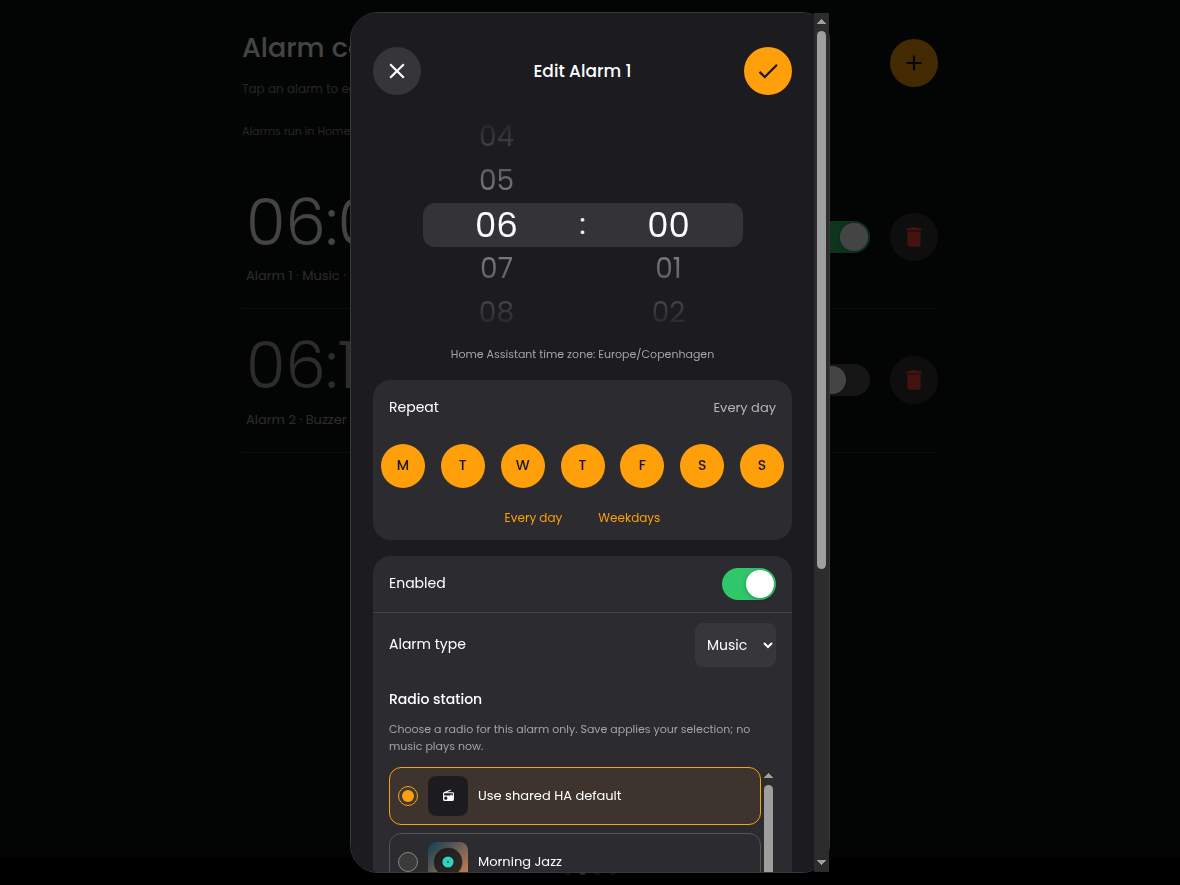
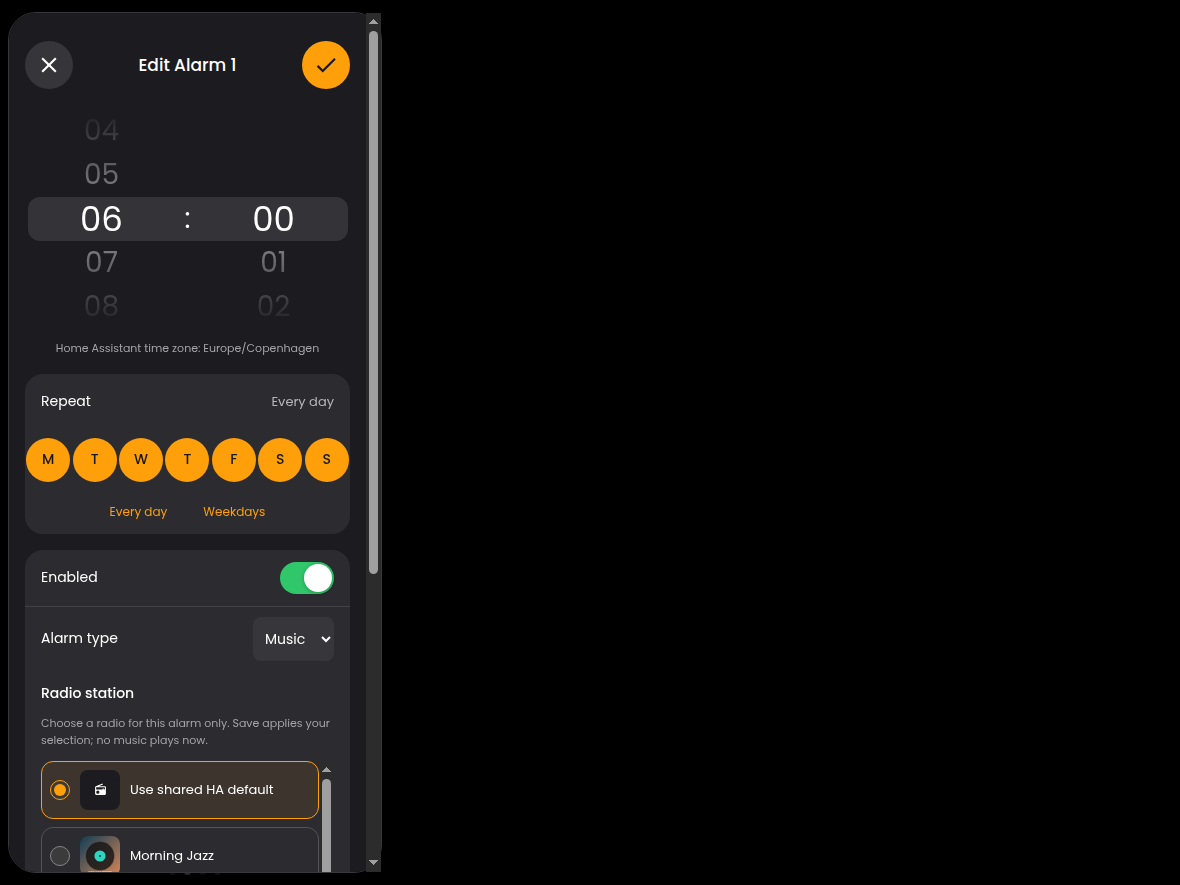
Use pure black across all main pages (0.14.1)
Share the black app canvas across all pages, including loading and disconnected states, while preserving configurable clock colors and contrasting controls. Verify rendered desktop/mobile pixels and refresh the affected Alarm screenshots.

diff --git a/clock-radio/app/web/styles.css b/clock-radio/app/web/styles.css
@@ -12,12 +12,11 @@ button:focus-visible, a:focus-visible, input:focus-visible, select:focus-visible
 .sr-only { position: absolute; width: 1px; height: 1px; overflow: hidden; clip-path: inset(50%); white-space: nowrap; }
 .online { color: var(--accent); }
 .stage { position: relative; flex: 1; min-width: 0; min-height: 0; overflow: hidden; padding-bottom: var(--page-indicator-height); }
-.page { width: 100%; height: 100%; }
+.page { width: 100%; height: 100%; background: var(--bg); }
 .page-indicator { position: absolute; z-index: 1; bottom: 0; left: 0; right: 0; display: flex; align-items: center; justify-content: center; gap: 8px; height: var(--page-indicator-height); padding-bottom: env(safe-area-inset-bottom, 0px); background: #000; pointer-events: none; }
 .page-indicator__dot { width: 7px; height: 7px; border-radius: 50%; background: #3a3a3e; }
 .page-indicator__dot.is-active { background: #9b9ba0; }
 .is-night .page-indicator__dot { opacity: .4; }
-.clock-page, #page-music { background: #000; }
 #clock-frame { display: block; border: 0; width: 100%; height: 100%; }
 .clock-focus { position: absolute; right: 18px; top: 16px; padding: 8px 12px; border-radius: 10px; background: #161616; color: #a6a6a6; opacity: .2; font-size: 11px; }
 .clock-focus:hover, .clock-focus:focus-visible { opacity: 1; }

diff --git a/clock-radio/app/test/server.test.js b/clock-radio/app/test/server.test.js
@@ -64,7 +64,12 @@ test("HTTP foundation works end to end with HA, hot reload, error paths and ingr
   assert.match(api, /fetch\(`\.\/\$\{url\}`/);
   const styles = await fetch(`${url}/styles.css`);
   assert.equal(styles.status, 200);
-  assert.match(await styles.text(), /\.clock-page,\s*#page-music\s*\{\s*background:\s*#000;/);
+  const css = await styles.text();
+  assert.match(css, /html, body\s*\{[^}]*background:\s*var\(--bg\)/);
+  assert.match(css, /\.page\s*\{[^}]*background:\s*var\(--bg\)/);
+  const tokens = await fetch(`${url}/css/tokens.css`);
+  assert.equal(tokens.status, 200);
+  assert.match(await tokens.text(), /--bg:\s*#000;/);
   const musicStyles = await fetch(`${url}/css/music.css`);
   assert.equal(musicStyles.status, 200);
   assert.match(await musicStyles.text(), /\.np\s*\{[^}]*background:\s*#000;/);

diff --git a/clock-radio/app/web/css/tokens.css b/clock-radio/app/web/css/tokens.css
@@ -6,7 +6,7 @@
 
 :root {
   --accent: #2dd4bf;
-  --bg: #0d0f10;
+  --bg: #000;
   --sidebar-bg: #000;
   --tile-bg: linear-gradient(160deg, #2a2a2c 0%, #1c1c1e 100%);
   --tile-bg-active: linear-gradient(160deg, #38383b 0%, #222224 100%);

diff --git a/README.md b/README.md
@@ -29,10 +29,12 @@ page with no build step, HACS cards, or tablet-side Home Assistant token.
 3. **Music overview** - Dasher's layout with swipeable Discover,
    Radio, Albums, Artists, Podcasts, Playlists and Search tabs, sticky
    now-playing bar and artwork player with seeking, shuffle, repeat and volume.
-   The page and now-playing bar use a pure-black background, with contrasting cards.
    Full library browsing needs a Music Assistant read-only token in app options.
 4. **Settings** - persistent clock appearance, time/calendar, weather labels,
    night mode and Music Assistant connection guidance.
+
+All four main-page canvases default to pure black; cards and controls retain
+their contrast. Clock colors remain configurable in Settings.
 
 There is no menu. Swipe **up/down** between pages; scroll to the edge first in
 Alarm configuration/Music/Settings. Keyboard users can use **Page Up/Down**.

diff --git a/clock-radio/DOCS.md b/clock-radio/DOCS.md
@@ -2,6 +2,10 @@
 
 ## Four pages and alarm helpers
 
+All four main-page canvases and the app/loading background are pure black
+(`#000000`). Cards, controls and dialogs keep contrasting surfaces; clock
+colors can still be customized in Settings.
+
 There is no menu. Swipe **up/down** between **The Clock**, **Alarm configuration**,
 **Music overview** and **Settings**, or use keyboard **Page Up/Down** outside
 form inputs. Scroll to the top/bottom first in Alarm configuration, Music and

diff --git a/clock-radio/CHANGELOG.md b/clock-radio/CHANGELOG.md
@@ -1,5 +1,13 @@
 # Changelog
 
+## 0.14.1
+
+- Use pure black for the shared app canvas and all four main-page backgrounds,
+  fixing the Alarm page and loading/disconnected gaps rather than relying on
+  page-specific overrides.
+- Preserve card/control/dialog contrast and configurable clock colors. Add
+  shared-background asset checks and refresh the affected Alarm screenshots.
+
 ## 0.14.0
 
 - Reorder the main pages to Clock, Alarm configuration, Music overview, Settings.
